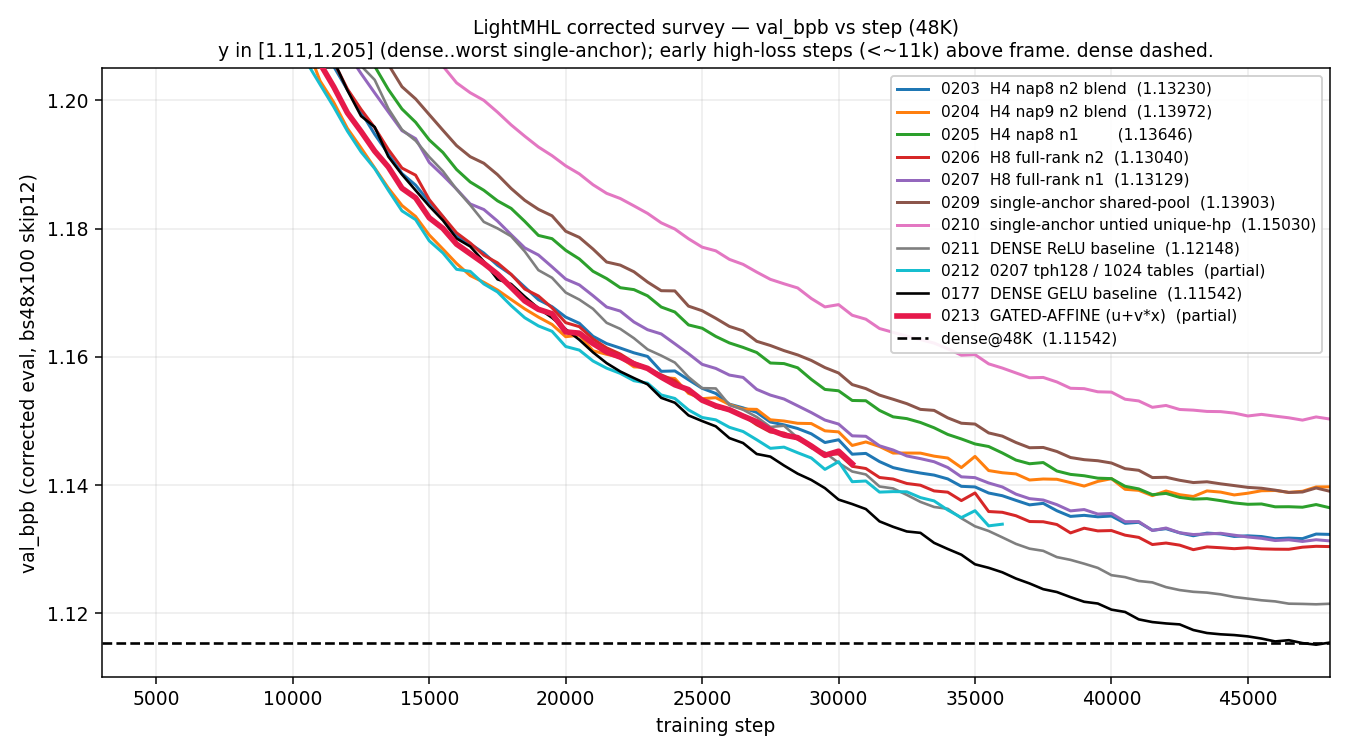
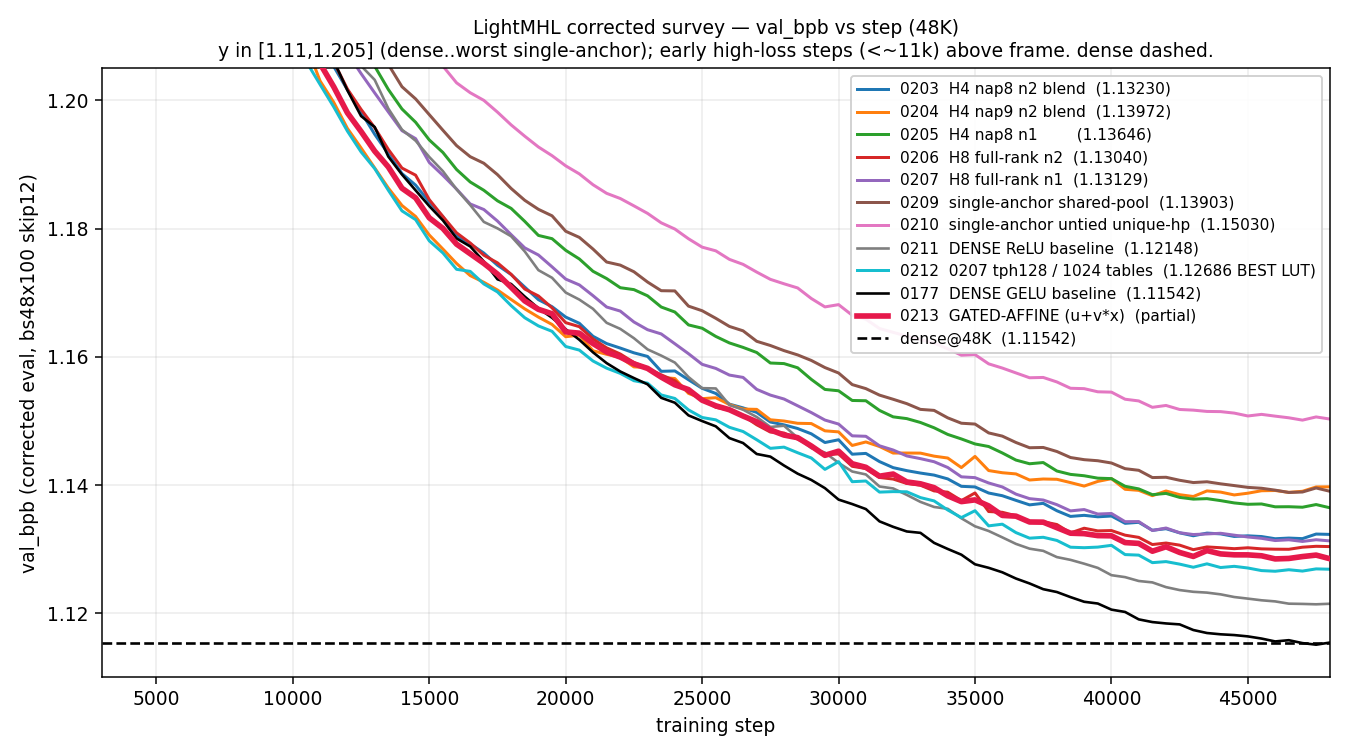
survey: 0212 best-LUT + table-count-at-H8 note; plot all arms to 48K final
0212 (2x tables at H8) 1.126865 is the best LUT arm (+3.42s vs dense); doubling
table COUNT helps at H8 (refines the nap9/H4 'capacity not a lever' read -- it's
geometry/axis dependent). Plot now shows 0212 and 0213 to their 48K finals; last
points verified vs CSVs.

Claude-Session: https://claude.ai/code/session_011kogAUByzrBRnsX7RapTfT

Changed region(s): [[0.6222, 0.0913, 0.9644, 0.4563], [0.6844, 0.6389, 0.9956, 0.7606], [0.6222, 0.6085, 0.6844, 0.6389]]

diff --git a/experiments/ffn_replacement/runs_corrected/LIGHTMHL_SURVEY.md b/experiments/ffn_replacement/runs_corrected/LIGHTMHL_SURVEY.md
@@ -1514,3 +1514,10 @@ Extremum probe of the addressing scheme: each address bit = sign of ONE projecte
 - **0213 is the NEW BEST LUT arm** (1.128510), beating the prior best 0206 by −0.56σ, and it posts the **smallest LUT-vs-dense gap in the whole survey (+3.91σ vs 0206's +4.47σ)** — within-cell affine interpolation closed ~0.56σ (~12%) of the gap that a constant value store leaves.
 - **But it does NOT reach dense**, and the closure is modest. Its early matched-step behaviour was striking (at step 11k it was −1.1σ *under* the dense curve — the first LUT arm ever to track below dense) but the lead **fully reversed** as dense kept descending (step 30.5k: +1.88σ above dense), ending +3.91σ. Same early-lead-compression pattern the blend/geometry arms showed.
 - **Read:** address-dependent within-cell interpolation (a learned diagonal-affine per cell) is the most productive LUT lever found — it beats every constant-cell variant — and it points the same way as the monosemanticity lens (make the read-out do more *learned, input-conditioned* work per address). It is the direction to push (richer per-cell maps; and the still-untried LEARNABLE addressing). Even so, plain dense (GELU 1.11542, ReLU 1.12148) still beats it. Sibling ablation `gated_multiply` (v⊙x, no bias) is a one-flag run away. Detail: `exp_g_0213_.../`.
+
+## Table-COUNT capacity at H8 (0212) — doubling tph HELPS (unlike doubling cells at H4)
+
+**exp_g_0212** = 0207 with **tph 64→128 (n_tables 512→1024, table params doubled)**, constant cell, everything else 0207. Final **1.126865** (best 1.126549, 4.88h; run on the worker VM). σ=0.00335.
+- **−1.32σ vs its constant twin 0207 (1.131286)** — doubling the table COUNT clearly HELPED, and 0212 is the **overall best LUT arm** (1.126865, **+3.42σ vs dense GELU** — the smallest gap in the survey, edging out 0213 gated_affine's 1.128510 by −0.49σ and 0206 by −1.05σ).
+- **This refines the earlier "capacity is not a lever" reading.** That came from 0204 (nap9, double CELLS at H4) which *hurt* (+2.21σ). But at the better H8 full-rank geometry, doubling table COUNT (more independent tables/experts) *helps*. So capacity IS a lever — as more tables, at H8 — even though more cells-per-table at H4 was not. The effect is geometry- and axis-dependent: widen the ensemble (tph, at full-rank H8), don't deepen each table (nap).
+- Best LUT arms now, all n=1 pair at H8 full-rank: **0212 (2× tables) 1.126865 < 0213 (gated cell) 1.128510 < 0206/0207 ~1.130**. All still +3.4–3.9σ over dense. Detail: `exp_g_0212_.../` (worker VM).
